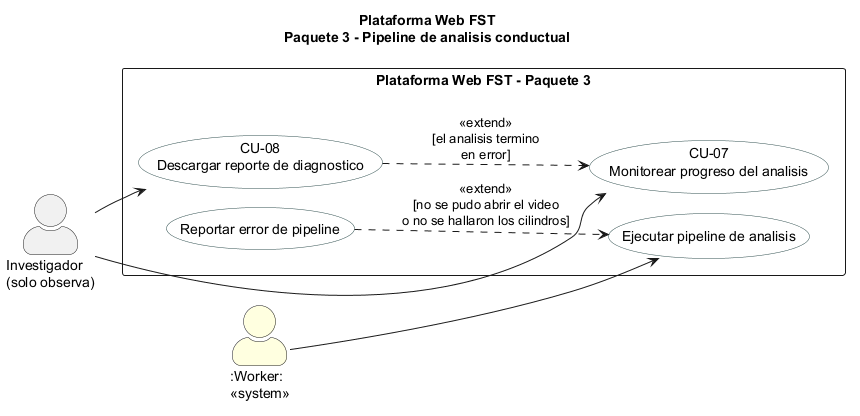
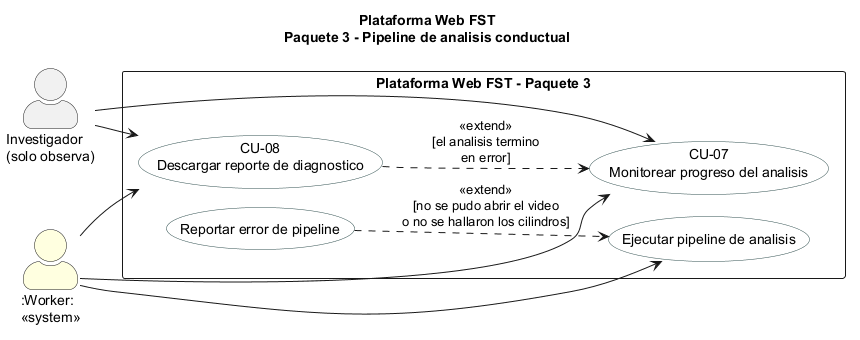
Alinear las fichas de casos de uso entre si y con los diagramas
Se revisaron las 25 fichas y los seis diagramas; las relaciones, los titulos y
los identificadores ya coincidian. Se corrigen las contradicciones restantes:

- CU-25 y CU-26: el flujo de la conducta confirmada pasa a CU-25, porque en
  CU-26 contradecia su precondicion.
- CU-09 muestra las cuatro conductas, con la conducta activa.
- CU-03 y CU-13 pasan a casos primarios, como en los diagramas.
- CU-15, CU-19, CU-20 y CU-27 dejan de tener al sistema como actor.
- CU-04, CU-18 y CU-22 incluyen al Administrador, que hereda del Investigador.
- CU-15 cubre tambien CU-24.
- CU-20 y su diagrama incluyen el video vertical, que CU-05 ya rechazaba.
- CU-01 incluye la cuenta inactiva; CU-18 incluye los apellidos.
- CU-11 remite al alta de CU-12 y habla de usuarios, no de investigadores.
- CU-14 incluye el borrado de emergencia al superar el 90 % del disco.
- CU-06 se fusiona en CU-22, igual que CU-21: era la misma lista de experimentos.
- El diagrama del paquete 3 conecta al Worker con CU-07 y CU-08.

diff --git a/chapters/05_diseno.tex b/chapters/05_diseno.tex
@@ -778,7 +778,7 @@ acceso y la actualización del perfil propio.
 Cubre el ciclo de vida de un experimento: registrar sus datos (nombre, fecha y notas),
 subir uno o dos videos por tanda en formato MP4 o MOV (al subir el primer video de cada
 grupo se capturan su tipo, su tratamiento y el número de especímenes de la tanda) y
-consultar el historial de experimentos del laboratorio (ver RN-08).
+consultar los experimentos del laboratorio desde el \textit{dashboard} del paquete~5 (ver RN-08).
 
 \begin{figure}[H]
 \centering
@@ -899,7 +899,7 @@ caso de uso.
 \hline
 \textbf{Nro.} & \textbf{Descripción de acciones alternas} \\
 \hline
-4 & Credenciales incorrectas: el sistema muestra mensaje de error sin indicar cuál campo falló (ver RN-01). \\
+4 & Credenciales incorrectas o cuenta inactiva: el sistema muestra el mismo mensaje de error sin indicar cuál campo falló (ver RN-01). \\
 \hline
 \end{tabular}
 
@@ -969,7 +969,7 @@ caso de uso.
 \hline
 \textbf{Actores} & \multicolumn{2}{>{\raggedright\arraybackslash}p{12.4cm}|}{Investigador / Administrador} \\
 \hline
-\textbf{Tipo} & \multicolumn{2}{>{\raggedright\arraybackslash}p{12.4cm}|}{Secundario} \\
+\textbf{Tipo} & \multicolumn{2}{>{\raggedright\arraybackslash}p{12.4cm}|}{Primario} \\
 \hline
 \textbf{Referencias} & \multicolumn{2}{>{\raggedright\arraybackslash}p{12.4cm}|}{RF-03} \\
 \hline
@@ -1028,9 +1028,9 @@ caso de uso.
 \hline
 \textbf{Caso de Uso} & Verificar pertenencia a Administrador & \textbf{Identificador:} CU-15 \\
 \hline
-\textbf{Actores} & \multicolumn{2}{>{\raggedright\arraybackslash}p{12.4cm}|}{Sistema} \\
+\textbf{Actores} & \multicolumn{2}{>{\raggedright\arraybackslash}p{12.4cm}|}{Administrador (a través de CU-11, CU-12, CU-13, CU-17 y CU-24)} \\
 \hline
-\textbf{Tipo} & \multicolumn{2}{>{\raggedright\arraybackslash}p{12.4cm}|}{Regla de control de acceso (se aplica antes de CU-11, CU-12, CU-13 y CU-17)} \\
+\textbf{Tipo} & \multicolumn{2}{>{\raggedright\arraybackslash}p{12.4cm}|}{Regla de control de acceso (se aplica antes de CU-11, CU-12, CU-13, CU-17 y CU-24)} \\
 \hline
 \textbf{Referencias} & \multicolumn{2}{>{\raggedright\arraybackslash}p{12.4cm}|}{RF-04} \\
 \hline
@@ -1038,9 +1038,9 @@ caso de uso.
 \hline
 \textbf{Postcondición} & \multicolumn{2}{>{\raggedright\arraybackslash}p{12.4cm}|}{Se confirma o rechaza que el usuario pertenece a \texttt{ADMINISTRADOR}; la acción de administración solicitada continúa o se rechaza con error 403.} \\
 \hline
-\textbf{Descripción} & \multicolumn{2}{>{\raggedright\arraybackslash}p{12.4cm}|}{Antes de ejecutar cualquier acción de administración (crear cuenta, desactivar cuenta, listar usuarios o monitorear el sistema), el sistema verifica si el usuario autenticado pertenece a la tabla \texttt{ADMINISTRADOR}, sin importar si la interfaz ya ocultó la opción.} \\
+\textbf{Descripción} & \multicolumn{2}{>{\raggedright\arraybackslash}p{12.4cm}|}{Antes de ejecutar cualquier acción de administración (crear cuenta, desactivar cuenta, listar usuarios, monitorear el sistema o gestionar los experimentos de todos los investigadores), el sistema verifica si el usuario autenticado pertenece a la tabla \texttt{ADMINISTRADOR}, sin importar si la interfaz ya ocultó la opción.} \\
 \hline
-\textbf{Resumen} & \multicolumn{2}{>{\raggedright\arraybackslash}p{12.4cm}|}{Al invocar cualquiera de las cuatro acciones de administración, el sistema consulta si el \texttt{idInstitucional} del usuario autenticado tiene una fila en \texttt{ADMINISTRADOR}. Si no la tiene, rechaza la solicitud con error 403, incluso si la petición no pasó por la interfaz (por ejemplo, una llamada directa a la API).} \\
+\textbf{Resumen} & \multicolumn{2}{>{\raggedright\arraybackslash}p{12.4cm}|}{Al invocar cualquiera de las acciones de administración, el sistema consulta si el \texttt{idInstitucional} del usuario autenticado tiene una fila en \texttt{ADMINISTRADOR}. Si no la tiene, rechaza la solicitud con error 403, incluso si la petición no pasó por la interfaz (por ejemplo, una llamada directa a la API).} \\
 \hline
 \end{tabular}
 
@@ -1051,7 +1051,7 @@ caso de uso.
 \hline
 \textbf{Nro.} & \textbf{Ejecutor} & \textbf{Paso o Actividad} \\
 \hline
-1 & Sistema & Recibe la solicitud de una acción de administración (crear/desactivar cuenta, listar usuarios o monitorear el sistema). \\
+1 & Sistema & Recibe la solicitud de una acción de administración (crear o desactivar cuentas, listar usuarios, monitorear el sistema o gestionar los experimentos de todos). \\
 \hline
 2 & Sistema & Consulta si el \texttt{idInstitucional} del usuario autenticado tiene registro en \texttt{ADMINISTRADOR}. \\
 \hline
@@ -1195,7 +1195,7 @@ caso de uso.
 \hline
 \textbf{Caso de Uso} & Actualizar perfil propio & \textbf{Identificador:} CU-18 \\
 \hline
-\textbf{Actores} & \multicolumn{2}{>{\raggedright\arraybackslash}p{12.4cm}|}{Investigador} \\
+\textbf{Actores} & \multicolumn{2}{>{\raggedright\arraybackslash}p{12.4cm}|}{Investigador / Administrador} \\
 \hline
 \textbf{Tipo} & \multicolumn{2}{>{\raggedright\arraybackslash}p{12.4cm}|}{Primario} \\
 \hline
@@ -1205,7 +1205,7 @@ caso de uso.
 \hline
 \textbf{Postcondición} & \multicolumn{2}{>{\raggedright\arraybackslash}p{12.4cm}|}{Datos del perfil actualizados en la base de datos.} \\
 \hline
-\textbf{Descripción} & \multicolumn{2}{>{\raggedright\arraybackslash}p{12.4cm}|}{Permite al investigador actualizar su nombre, correo electrónico y contraseña desde la pantalla de perfil.} \\
+\textbf{Descripción} & \multicolumn{2}{>{\raggedright\arraybackslash}p{12.4cm}|}{Permite al investigador actualizar su nombre, apellidos, correo electrónico y contraseña desde la pantalla de perfil.} \\
 \hline
 \textbf{Resumen} & \multicolumn{2}{>{\raggedright\arraybackslash}p{12.4cm}|}{El investigador accede a su perfil, modifica los campos deseados y confirma los cambios. El sistema valida los datos y actualiza el registro en la base de datos.} \\
 \hline
@@ -1220,7 +1220,7 @@ caso de uso.
 \hline
 1 & Investigador & Accede a la pantalla de perfil desde el menú de usuario. \\
 \hline
-2 & Sistema & Muestra los datos actuales: nombre, correo y opción de cambio de contraseña. \\
+2 & Sistema & Muestra los datos actuales: nombre, apellidos, correo y opción de cambio de contraseña. \\
 \hline
 3 & Investigador & Modifica los campos deseados y confirma los cambios. \\
 \hline
@@ -1252,7 +1252,7 @@ caso de uso.
 \hline
 \textbf{Caso de Uso} & Registrar experimento & \textbf{Identificador:} CU-04 \\
 \hline
-\textbf{Actores} & \multicolumn{2}{>{\raggedright\arraybackslash}p{12.4cm}|}{Investigador} \\
+\textbf{Actores} & \multicolumn{2}{>{\raggedright\arraybackslash}p{12.4cm}|}{Investigador / Administrador} \\
 \hline
 \textbf{Tipo} & \multicolumn{2}{>{\raggedright\arraybackslash}p{12.4cm}|}{Primario} \\
 \hline
@@ -1373,63 +1373,6 @@ caso de uso.
 
 \noindent\rule{\linewidth}{0.4pt}
 
-\noindent\textbf{Consultar historial de experimentos}
-
-\noindent\small
-\begin{tabular}{|p{2.8cm}|p{7.9cm}|p{4.0cm}|}
-\hline
-\textbf{Caso de Uso} & Consultar historial de experimentos & \textbf{Identificador:} CU-06 \\
-\hline
-\textbf{Actores} & \multicolumn{2}{>{\raggedright\arraybackslash}p{12.4cm}|}{Investigador / Administrador} \\
-\hline
-\textbf{Tipo} & \multicolumn{2}{>{\raggedright\arraybackslash}p{12.4cm}|}{Primario} \\
-\hline
-\textbf{Referencias} & \multicolumn{2}{>{\raggedright\arraybackslash}p{12.4cm}|}{RF-23, RF-30} \\
-\hline
-\textbf{Precondición} & \multicolumn{2}{>{\raggedright\arraybackslash}p{12.4cm}|}{Sesión activa.} \\
-\hline
-\textbf{Postcondición} & \multicolumn{2}{>{\raggedright\arraybackslash}p{12.4cm}|}{Lista de experimentos del laboratorio mostrada al usuario.} \\
-\hline
-\textbf{Descripción} & \multicolumn{2}{>{\raggedright\arraybackslash}p{12.4cm}|}{Permite al usuario consultar todos los experimentos registrados en el laboratorio y acceder al detalle de cada uno.} \\
-\hline
-\textbf{Resumen} & \multicolumn{2}{>{\raggedright\arraybackslash}p{12.4cm}|}{Desde el \textit{dashboard}, el sistema recupera y muestra la lista completa de experimentos del laboratorio con su estado; el investigador puede seleccionar cualquiera para ver su detalle.} \\
-\hline
-\end{tabular}
-
-\noindent
-\begin{tabular}{|p{1.0cm}|p{3.7cm}|p{10.0cm}|}
-\hline
-\multicolumn{3}{|l|}{\textbf{Curso Normal}} \\
-\hline
-\textbf{Nro.} & \textbf{Ejecutor} & \textbf{Paso o Actividad} \\
-\hline
-1 & Inv. / Admin. & Accede al \textit{dashboard} principal de la aplicación. \\
-\hline
-2 & Sistema & Consulta la base de datos y recupera todos los experimentos del laboratorio (ver RN-08). \\
-\hline
-3 & Sistema & Muestra la lista con nombre, fecha, número de grupos, sesión y estado (en cola / procesando / completado / error). \\
-\hline
-4 & Inv. / Admin. & Selecciona un experimento para ver su detalle. \\
-\hline
-5 & Sistema & Muestra el detalle del experimento seleccionado. \\
-\hline
-\end{tabular}
-
-\noindent
-\begin{tabular}{|p{1.0cm}|p{14.1cm}|}
-\hline
-\multicolumn{2}{|l|}{\textbf{Cursos Alternos}} \\
-\hline
-\textbf{Nro.} & \textbf{Descripción de acciones alternas} \\
-\hline
-3 & No hay experimentos registrados: el sistema muestra una vista vacía con instrucción para crear el primero. \\
-\hline
-\end{tabular}
-
-\normalsize\bigskip
-
-\noindent\rule{\linewidth}{0.4pt}
-
 \noindent\textbf{Encolar análisis automático}
 
 \noindent\small
@@ -1437,7 +1380,7 @@ caso de uso.
 \hline
 \textbf{Caso de Uso} & Encolar análisis automático & \textbf{Identificador:} CU-19 \\
 \hline
-\textbf{Actores} & \multicolumn{2}{>{\raggedright\arraybackslash}p{12.4cm}|}{Sistema} \\
+\textbf{Actores} & \multicolumn{2}{>{\raggedright\arraybackslash}p{12.4cm}|}{Investigador / Administrador (al subir un video, ver CU-05)} \\
 \hline
 \textbf{Tipo} & \multicolumn{2}{>{\raggedright\arraybackslash}p{12.4cm}|}{Secundario (\textit{<<include>>} de CU-05 Subir video)} \\
 \hline
@@ -1490,9 +1433,9 @@ caso de uso.
 \hline
 \textbf{Caso de Uso} & Notificar rechazo de video & \textbf{Identificador:} CU-20 \\
 \hline
-\textbf{Actores} & \multicolumn{2}{>{\raggedright\arraybackslash}p{12.4cm}|}{Sistema} \\
+\textbf{Actores} & \multicolumn{2}{>{\raggedright\arraybackslash}p{12.4cm}|}{Investigador / Administrador (al subir un video, ver CU-05)} \\
 \hline
-\textbf{Tipo} & \multicolumn{2}{>{\raggedright\arraybackslash}p{12.4cm}|}{Secundario (\textit{<<extend>>} de CU-05, condición: formato inválido o video no reproducible)} \\
+\textbf{Tipo} & \multicolumn{2}{>{\raggedright\arraybackslash}p{12.4cm}|}{Secundario (\textit{<<extend>>} de CU-05, condición: formato inválido, video vertical o video no reproducible)} \\
 \hline
 \textbf{Referencias} & \multicolumn{2}{>{\raggedright\arraybackslash}p{12.4cm}|}{RF-08, RF-10, RN-10. Extiende: CU-05 (Subir video).} \\
 \hline
@@ -1502,7 +1445,7 @@ caso de uso.
 \hline
 \textbf{Descripción} & \multicolumn{2}{>{\raggedright\arraybackslash}p{12.4cm}|}{El sistema informa al investigador del motivo exacto del rechazo, permitiéndole corregir el problema y subir un archivo válido.} \\
 \hline
-\textbf{Resumen} & \multicolumn{2}{>{\raggedright\arraybackslash}p{12.4cm}|}{Cuando la validación de CU-05 falla, el sistema muestra un mensaje que indica el motivo (formato incorrecto o video no reproducible) y la tanda permanece sin ese video para que el investigador pueda intentarlo nuevamente.} \\
+\textbf{Resumen} & \multicolumn{2}{>{\raggedright\arraybackslash}p{12.4cm}|}{Cuando la validación de CU-05 falla, el sistema muestra un mensaje que indica el motivo (formato incorrecto, video vertical o video no reproducible) y la tanda permanece sin ese video para que el investigador pueda intentarlo nuevamente.} \\
 \hline
 \end{tabular}
 
@@ -1513,7 +1456,7 @@ caso de uso.
 \hline
 \textbf{Nro.} & \textbf{Ejecutor} & \textbf{Paso o Actividad} \\
 \hline
-1 & Sistema & Detecta que el archivo no supera la validación (formato o reproducibilidad). \\
+1 & Sistema & Detecta que el archivo no supera la validación (formato, orientación o reproducibilidad). \\
 \hline
 2 & Sistema & Descarta el archivo sin almacenarlo. \\
 \hline
@@ -1692,7 +1635,7 @@ caso de uso.
 \hline
 2 & Sistema & Recupera de la base de datos los registros de \textbf{OBSERVACION}, \textbf{INTERVALO} y \textbf{PRESENTA} del análisis. \\
 \hline
-3 & Sistema & Muestra tabla de tiempos por espécimen: nado activo, inmovilidad y escalamiento, con totales en segundos y porcentaje. \\
+3 & Sistema & Muestra tabla de tiempos por espécimen: nado activo, inmovilidad, escalamiento y conducta activa, con totales en segundos y porcentaje. \\
 \hline
 4 & Sistema & Muestra el desglose de conductas por minuto para cada espécimen. \\
 \hline
@@ -1781,7 +1724,7 @@ caso de uso.
 \hline
 \textbf{Precondición} & \multicolumn{2}{>{\raggedright\arraybackslash}p{12.4cm}|}{Análisis en estado «completado»; sesión activa.} \\
 \hline
-\textbf{Postcondición} & \multicolumn{2}{>{\raggedright\arraybackslash}p{12.4cm}|}{Pantalla de revisión abierta con las etiquetas de cada segundo; si el usuario no corrige nada, los datos no cambian.} \\
+\textbf{Postcondición} & \multicolumn{2}{>{\raggedright\arraybackslash}p{12.4cm}|}{Pantalla de revisión abierta con las etiquetas de cada segundo; si el usuario no corrige nada, las conductas no cambian y solo se marcan como confirmadas las que vio.} \\
 \hline
 \textbf{Descripción} & \multicolumn{2}{>{\raggedright\arraybackslash}p{12.4cm}|}{Permite revisar, con el video, la conducta que el sistema asignó a cada espécimen en cada segundo.} \\
 \hline
@@ -1806,7 +1749,7 @@ caso de uso.
 \hline
 5 & Inv. / Admin. & Elige «Guardar». \\
 \hline
-6 & Sistema & Guarda las correcciones y confirma. \\
+6 & Sistema & Guarda las correcciones, marca como «confirmada» la conducta de los segundos que el usuario vio sin cambiar, y confirma el guardado. \\
 \hline
 \end{tabular}
 
@@ -1872,8 +1815,6 @@ caso de uso.
 \hline
 1 & El usuario deja un segundo sin conducta a propósito: queda marcado como «dudosa». \\
 \hline
-1 & La conducta que el usuario elige coincide con la del sistema: queda marcada como «confirmada». \\
-\hline
 4 & No se puede guardar: el borrador se conserva en el navegador y el sistema informa el error. \\
 \hline
 \end{tabular}
@@ -1887,7 +1828,7 @@ caso de uso.
 \hline
 \textbf{Caso de Uso} & Recalcular totales por minuto & \textbf{Identificador:} CU-27 \\
 \hline
-\textbf{Actores} & \multicolumn{2}{>{\raggedright\arraybackslash}p{12.4cm}|}{Sistema} \\
+\textbf{Actores} & \multicolumn{2}{>{\raggedright\arraybackslash}p{12.4cm}|}{Investigador / Administrador (al guardar correcciones, ver CU-26)} \\
 \hline
 \textbf{Tipo} & \multicolumn{2}{>{\raggedright\arraybackslash}p{12.4cm}|}{Secundario (\textit{<<include>>} de CU-26 Corregir etiqueta de un segundo)} \\
 \hline
@@ -1950,7 +1891,7 @@ caso de uso.
 \hline
 \textbf{Postcondición} & \multicolumn{2}{>{\raggedright\arraybackslash}p{12.4cm}|}{Cuenta creada, editada o desactivada; cambio reflejado en la base de datos.} \\
 \hline
-\textbf{Descripción} & \multicolumn{2}{>{\raggedright\arraybackslash}p{12.4cm}|}{Permite al Administrador crear, editar o desactivar cuentas de investigador desde el panel de administración.} \\
+\textbf{Descripción} & \multicolumn{2}{>{\raggedright\arraybackslash}p{12.4cm}|}{Permite al Administrador crear, editar o desactivar cuentas de usuario desde el panel de administración.} \\
 \hline
 \textbf{Resumen} & \multicolumn{2}{>{\raggedright\arraybackslash}p{12.4cm}|}{El Administrador accede a la lista de usuarios y ejecuta la acción deseada: alta con contraseña temporal, modificación de datos o desactivación. El sistema aplica el cambio en la base de datos y confirma la operación.} \\
 \hline
@@ -1965,9 +1906,9 @@ caso de uso.
 \hline
 1 & Administrador & Accede al panel de administración. \\
 \hline
-2 & Sistema & Muestra la lista de investigadores con nombre, correo, si es administrador o investigador, y estado. \\
+2 & Sistema & Muestra la lista de usuarios con nombre, correo, si es administrador o investigador, y estado. \\
 \hline
-3 & Administrador & Selecciona la acción: (a) crear cuenta nueva con identificador institucional, nombre, apellidos, correo y contraseña temporal; (b) editar datos de cuenta existente; o (c) desactivar cuenta. \\
+3 & Administrador & Selecciona la acción: (a) crear una cuenta nueva (ver CU-12); (b) editar datos de cuenta existente; o (c) desactivar cuenta. \\
 \hline
 4 & Sistema & Aplica el cambio en la base de datos y muestra confirmación de la operación. \\
 \hline
@@ -1982,7 +1923,7 @@ caso de uso.
 \hline
 4a & Intento de desactivar la última cuenta de Administrador activa: el sistema rechaza la acción y muestra advertencia de que debe existir al menos un Administrador activo en todo momento. \\
 \hline
-4b & El correo ya está registrado al crear una cuenta nueva: el sistema informa el conflicto y no crea el registro duplicado. \\
+4b & Al crear una cuenta nueva, el identificador institucional o el correo ya están registrados (ver CU-12): el sistema informa el conflicto y no crea el registro duplicado. \\
 \hline
 \end{tabular}
 
@@ -2062,7 +2003,7 @@ caso de uso.
 \hline
 \textbf{Actores} & \multicolumn{2}{>{\raggedright\arraybackslash}p{12.4cm}|}{Administrador} \\
 \hline
-\textbf{Tipo} & \multicolumn{2}{>{\raggedright\arraybackslash}p{12.4cm}|}{Secundario} \\
+\textbf{Tipo} & \multicolumn{2}{>{\raggedright\arraybackslash}p{12.4cm}|}{Primario} \\
 \hline
 \textbf{Referencias} & \multicolumn{2}{>{\raggedright\arraybackslash}p{12.4cm}|}{RF-29} \\
 \hline
@@ -2111,7 +2052,7 @@ caso de uso.
 \hline
 \textbf{Caso de Uso} & Consultar dashboard & \textbf{Identificador:} CU-22 \\
 \hline
-\textbf{Actores} & \multicolumn{2}{>{\raggedright\arraybackslash}p{12.4cm}|}{Investigador} \\
+\textbf{Actores} & \multicolumn{2}{>{\raggedright\arraybackslash}p{12.4cm}|}{Investigador / Administrador} \\
 \hline
 \textbf{Tipo} & \multicolumn{2}{>{\raggedright\arraybackslash}p{12.4cm}|}{Primario} \\
 \hline
@@ -2290,7 +2231,7 @@ caso de uso.
 \hline
 \textbf{Referencias} & \multicolumn{2}{>{\raggedright\arraybackslash}p{12.4cm}|}{RF-23, RF-24, RF-25. Reglas: RN-05, RN-06.} \\
 \hline
-\textbf{Precondición} & \multicolumn{2}{>{\raggedright\arraybackslash}p{12.4cm}|}{Análisis del video completado exitosamente; han transcurrido 30 días desde la fecha de análisis exitoso.} \\
+\textbf{Precondición} & \multicolumn{2}{>{\raggedright\arraybackslash}p{12.4cm}|}{Análisis del video completado exitosamente; han transcurrido 30 días desde la fecha de análisis exitoso, salvo que el disco supere el 90\,\% (ver cursos alternos).} \\
 \hline
 \textbf{Postcondición} & \multicolumn{2}{>{\raggedright\arraybackslash}p{12.4cm}|}{Archivo de video eliminado del servidor de forma permanente e irreversible (ver RN-05). Resultados y reportes conservados indefinidamente (ver RN-06).} \\
 \hline
@@ -2325,6 +2266,8 @@ caso de uso.
 \multicolumn{2}{|l|}{\textbf{Cursos Alternos}} \\
 \hline
 \textbf{Nro.} & \textbf{Descripción de acciones alternas} \\
+\hline
+4 & El uso de disco supera el 90\,\%: el sistema borra primero los videos más antiguos aunque no hayan cumplido 30 días y notifica al investigador de cada experimento afectado (ver RNF-09). \\
 \hline
 4 & El archivo de video ya no existe en el sistema de archivos (eliminado previamente de forma manual): el \textit{Worker} registra la situación y actualiza el estado sin generar error. \\
 \hline
